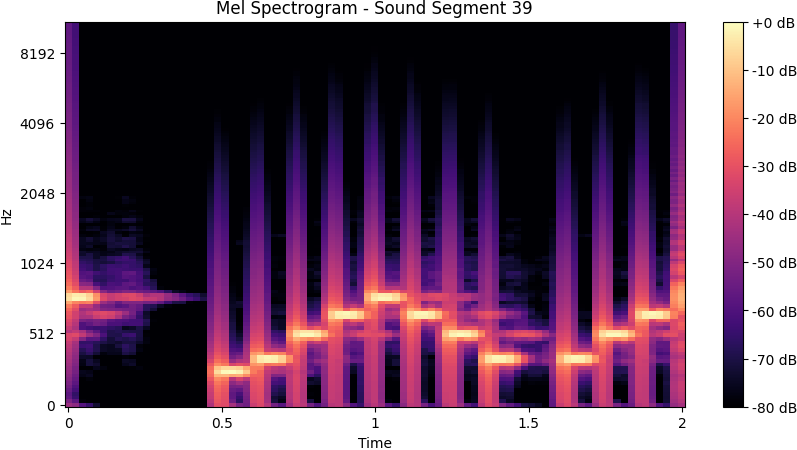
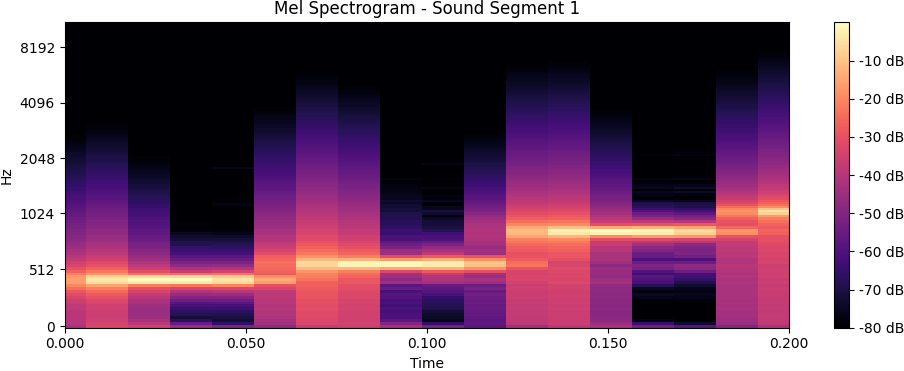
some specy

diff --git a/isolatePeaks.py b/isolatePeaks.py
@@ -50,33 +50,32 @@ def isolate_sounds(wav_file):
     print("returning sound_segments: ", sound_segments)
     return sound_segments
 
-def create_mel_spectrogram(sound_segments, output_image):
-    print("in create_mel_spectrogram")
-    print("length of sound_segments: ", len(sound_segments))
-    sr = 22050
-    print("sr: ", sr)
-    # Generate mel spectrogram for each sound segment
-    for i, segment in enumerate(sound_segments):
-        print("in for loop, i = ", i)
-        # Compute the mel spectrogram
-        mel_spectrogram = librosa.feature.melspectrogram(y=segment, sr=sr)
+def create_mel_spectrogram(segment, output_image, sr, i):
+    print("Creating Mel Spectrogram Number: ", i)
 
-        # Convert to log scale (dB)
-        log_mel_spectrogram = librosa.power_to_db(mel_spectrogram, ref=np.max)
+    # Compute the mel spectrogram
+    mel_spectrogram = librosa.feature.melspectrogram(y=segment, sr=sr)
+
+    # Convert to log scale (dB)
+    # log_mel_spectrogram = librosa.power_to_db(mel_spectrogram, ref=np.max)
+
+    # Convert the frames to time (in seconds)
+    times = librosa.frames_to_time(range(mel_spectrogram.shape[1]), sr=sr)
 
 
-        # Plot the mel spectrogram
-        plt.figure(figsize=(10, 5))
-        librosa.display.specshow(log_mel_spectrogram, sr=sr, x_axis='time', y_axis='mel')
-        plt.title(f'Mel Spectrogram - Sound Segment {i+1}')
-        plt.colorbar(format='%+2.0f dB')
+    # Plot the mel spectrogram
+    plt.figure(figsize=(10, 4))
+    librosa.display.specshow(librosa.power_to_db(mel_spectrogram, ref=np.max), x_coords=times, x_axis='time', y_axis='mel')
+    plt.title(f'Mel Spectrogram - Sound Segment {i+1}')
+    plt.colorbar(format='%+2.0f dB')
+     # Set the x-axis limits
+    plt.xlim(0, 0.2)  # Change these values to your desired range
+    plt.tight_layout()
 
-        print("got here")
+    # Save the plot as a PNG image
+    plt.savefig(output_image, bbox_inches='tight', pad_inches=0.0)
 
-        # Save the plot as a PNG image
-        plt.savefig(output_image, bbox_inches='tight', pad_inches=0.0)
-
-        plt.show()
+    # plt.show()
 
 # def print_mel_spec(sound_segment):
 #     print("printing mel spec")
@@ -98,9 +97,21 @@ def create_mel_spectrogram(sound_segments, output_image):
 def main():
     flag = True
     input_wav_file = 'file_example_WAV_2MG.wav'
-    output_image_file = 'mel_spec_out' + {i+1} + '.png'
     sound_segments = isolate_sounds(input_wav_file)
-    create_mel_spectrogram(sound_segments, output_image_file)
+    sr = 44100
+    for i, segment in enumerate(sound_segments):
+        # Image file name
+        output_image_file = 'mel_spec_out' + str(i+1) + '.png'
+
+        # # Get y and sr
+        # y, sr = librosa.load(segment)
+
+        # # Get the duration of the audio file
+        # duration = librosa.get_duration(y, sr)
+        # print(f"The duration of the audio file is {duration} seconds.")
+
+        #Create Mel Spectrogram
+        create_mel_spectrogram(segment, output_image_file, sr, i)
 
 if __name__ == "__main__":
     main()
